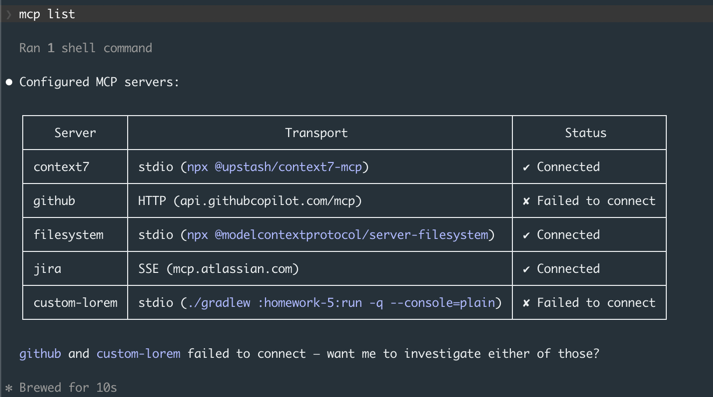
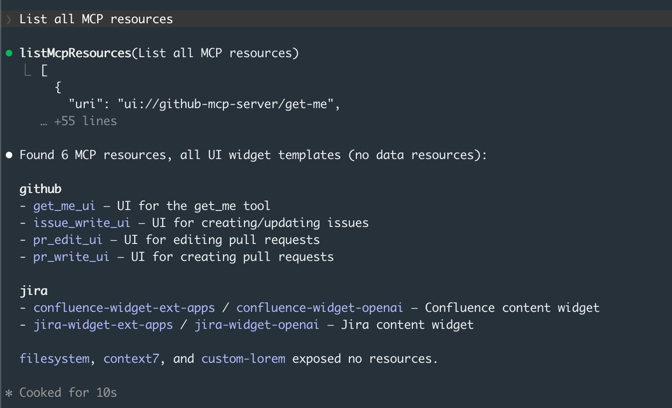
HW5: add actual mcp commands

diff --git a/homework-5/docs/logs/task-2-filesystem.md b/homework-5/docs/logs/task-2-filesystem.md
@@ -37,3 +37,23 @@ confirmed the server is scoped to the project path.
 
 - Screenshot: `docs/screenshots/02-prompt-claude-cli-mcp-00.png` — `filesystem` listed/connected (listMcpResources)
 - Screenshot: `docs/screenshots/02-prompt-claude-cli-mcp-filesystem-dir-structure.png` — dir listing table result
+
+## How this server was added (commands & actions)
+
+Method: **declarative** — edited project-scoped `homework-5/.mcp.json` directly (no `claude mcp add`).
+
+Equivalent imperative command (for reference):
+
+```bash
+claude mcp add --scope project filesystem -- \
+  npx -y @modelcontextprotocol/server-filesystem "${FILESYSTEM_MCP_PATH}"
+```
+
+Client actions actually performed:
+```text
+export FILESYSTEM_MCP_PATH="…/gen-ai-software-engineering/homework-5"
+claude                                  # restart so ${VAR} expands in args
+/mcp  (approve project servers)         # filesystem -> connected (14 tools)
+# interaction prompt:
+"using mcp filesystem, list all files in homework-5 dir and give summary of entities in table form"
+```

diff --git a/homework-5/docs/logs/task-1-github.md b/homework-5/docs/logs/task-1-github.md
@@ -51,3 +51,24 @@ Resolution steps:
 
 Note: `/doctor` does not scan `headers` for `${VARS}`, so the GitHub token never appears as a
 missing-env warning — connection status must be checked in `/mcp`.
+
+## How this server was added (commands & actions)
+
+Method: **declarative** — edited project-scoped `homework-5/.mcp.json` directly (no `claude mcp add`).
+
+Equivalent imperative command (for reference; produces the same project-scoped entry):
+
+```bash
+claude mcp add --scope project --transport http github \
+  https://api.githubcopilot.com/mcp/ \
+  --header "Authorization: Bearer ${GITHUB_PERSONAL_ACCESS_TOKEN}"
+```
+
+Client actions actually performed:
+```text
+export GITHUB_PERSONAL_ACCESS_TOKEN=***   # in the shell that launches claude
+claude                                     # restart so it reads .mcp.json + inherits the token
+/mcp  -> github -> Reconnect/Authenticate  # bring server online
+# interaction prompt:
+"List recent closed PRs of this repo"
+```

diff --git a/homework-5/docs/logs/task-3-jira.md b/homework-5/docs/logs/task-3-jira.md
@@ -50,3 +50,21 @@ record "no bugs exist yet" as the result.
 Recorded as: **no Bug-type issues in SCRUM, but 5 Stories present** (SCRUM-1…SCRUM-5).
 The required "last 5 bugs" request was executed correctly and returned valid results (empty for
 bugs). Evidence screenshots retained; no sample bugs created. Task 3 gate satisfied.
+
+## How this server was added (commands & actions)
+
+Method: **declarative** — edited project-scoped `homework-5/.mcp.json` directly (no `claude mcp add`).
+
+Equivalent imperative command (for reference):
+
+```bash
+claude mcp add --scope project --transport http jira https://mcp.atlassian.com/v1/mcp
+```
+
+Client actions actually performed:
+```text
+claude                                  # reload so it reads the jira block
+/mcp  -> jira -> Authenticate           # Atlassian OAuth in browser -> connected (31 tools)
+# interaction prompt:
+"using jira mcp Give me the tickets/pages of the last 5 bugs on a project"
+```
